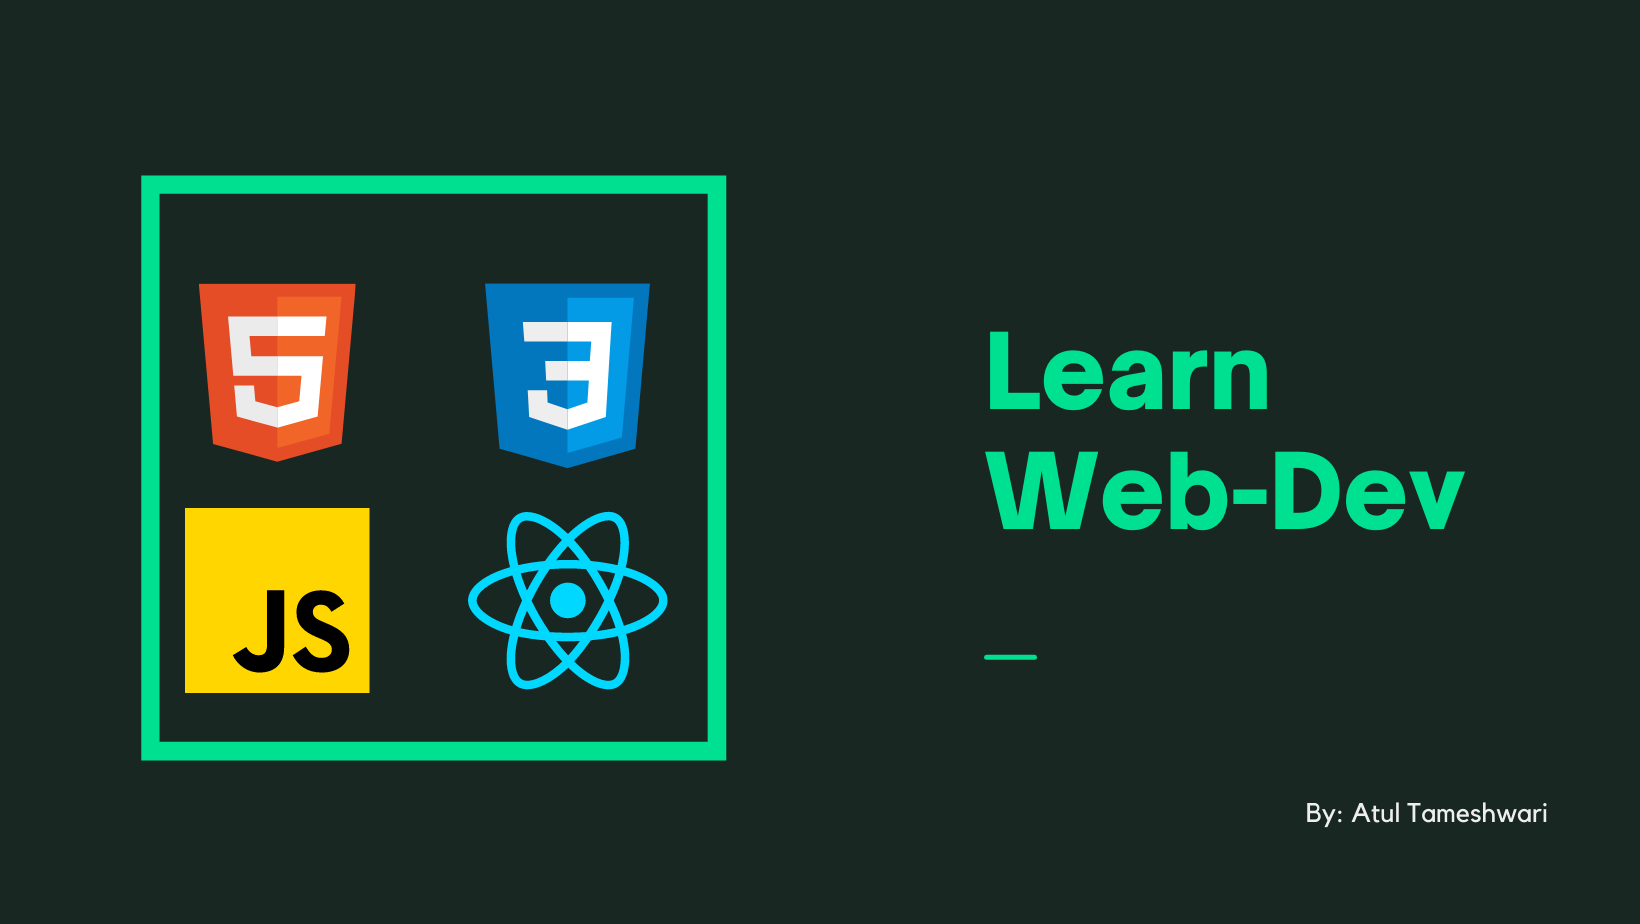
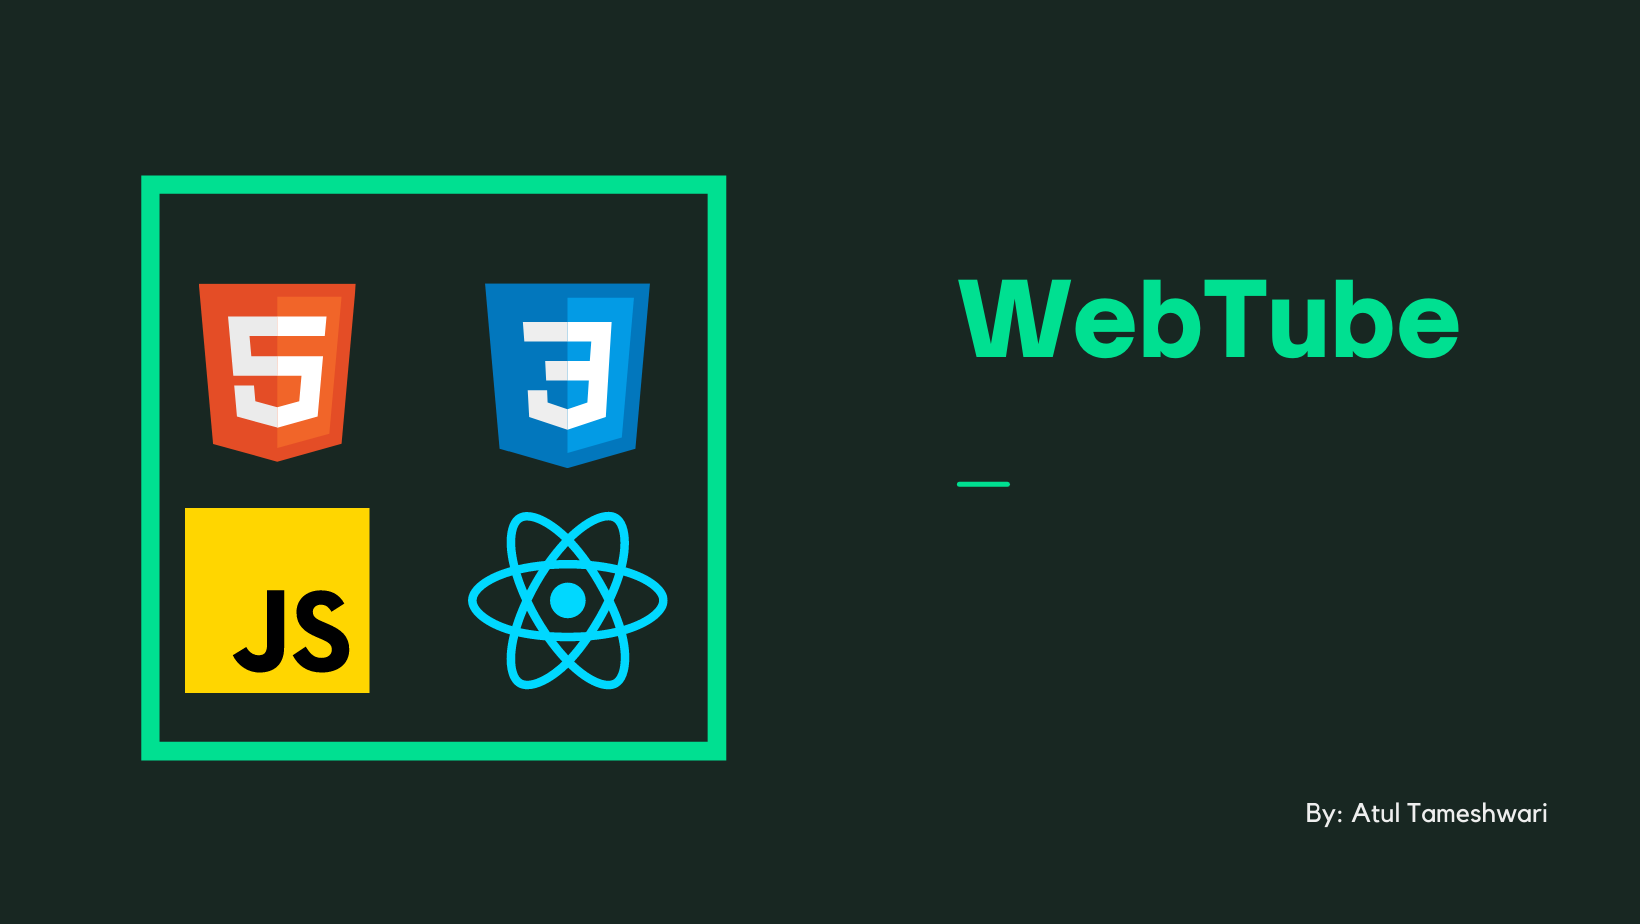
chore: project name changed

Changed region(s): [[0.5598, 0.303, 0.9018, 0.4545], [0.5909, 0.4848, 0.9018, 0.5758], [0.5909, 0.697, 0.622, 0.7273]]

diff --git a/README.md b/README.md
@@ -1,9 +1,9 @@
 # Learn Web-Dev
 
-[![Open in Visual Studio Code](https://open.vscode.dev/badges/open-in-vscode.svg)](https://open.vscode.dev/codingwolf-at/learn-web-dev) [![Netlify Status](https://api.netlify.com/api/v1/badges/ec498431-ed55-4cde-836a-fd90d6a8ef67/deploy-status)](https://app.netlify.com/sites/learn-web-dev-wolfy/deploys)
+[![Open in Visual Studio Code](https://open.vscode.dev/badges/open-in-vscode.svg)](https://open.vscode.dev/codingwolf-at/web-tube) [![Netlify Status](https://api.netlify.com/api/v1/badges/ec498431-ed55-4cde-836a-fd90d6a8ef67/deploy-status)](https://app.netlify.com/sites/webtube/deploys)
 
 ![BANNER](public/assets/banner.png)
 
 > Work in progress ⚒
 
-<!-- https://learn-web-dev-wolfy.netlify.app/ -->
+<!-- https://webtube.netlify.app/ -->
